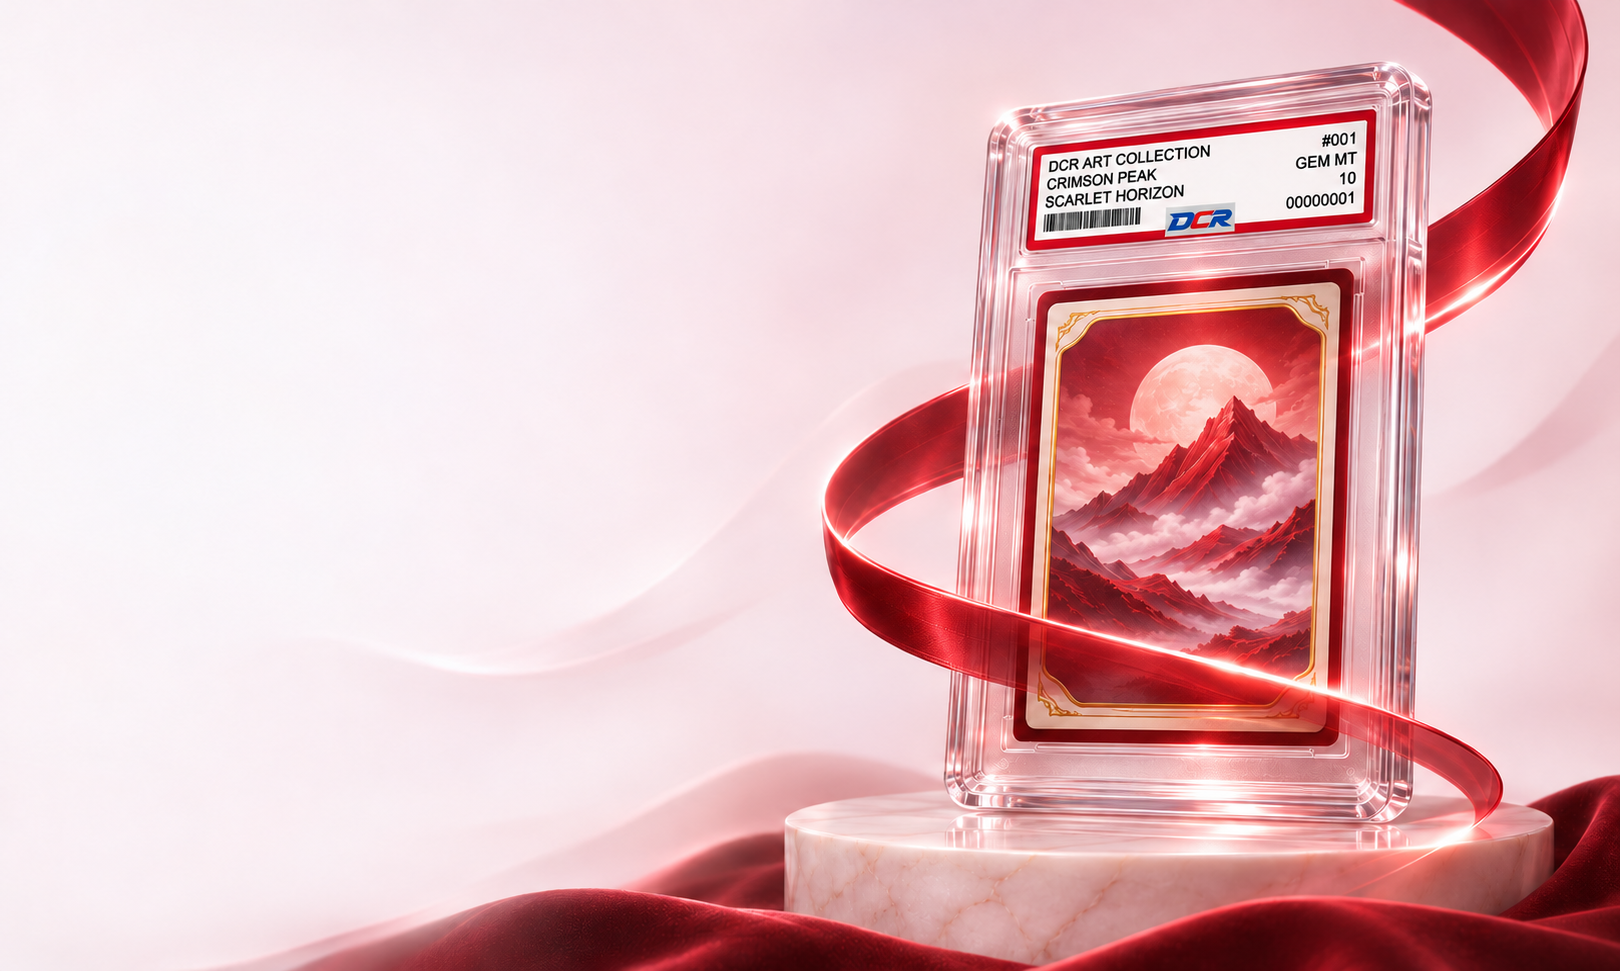
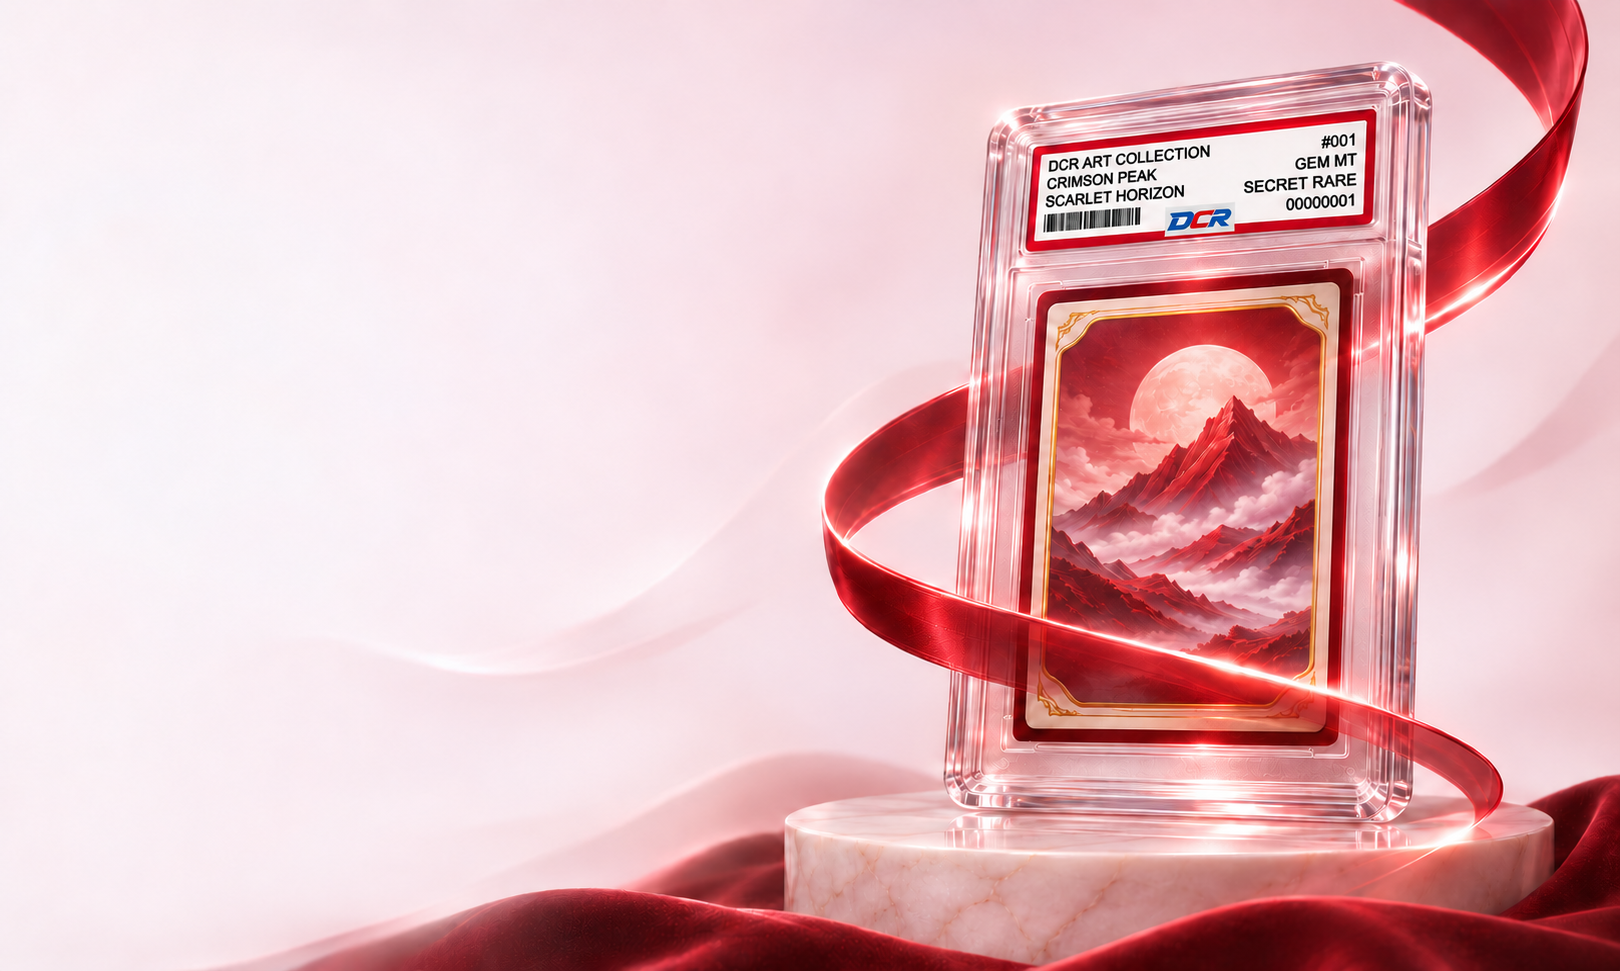
Update home hero label rarity

diff --git a/CHANGELOG.md b/CHANGELOG.md
@@ -1,5 +1,9 @@
 # Changelog
 
+## 2026-11-22 - Update home hero label
+
+- Show Secret Rare on the Crimson Peak illustration.
+
 ## 2026-11-22 - Update home hero artwork
 
 - Replace the home illustration with the selected Crimson Peak artwork and its fictional DCR label.
